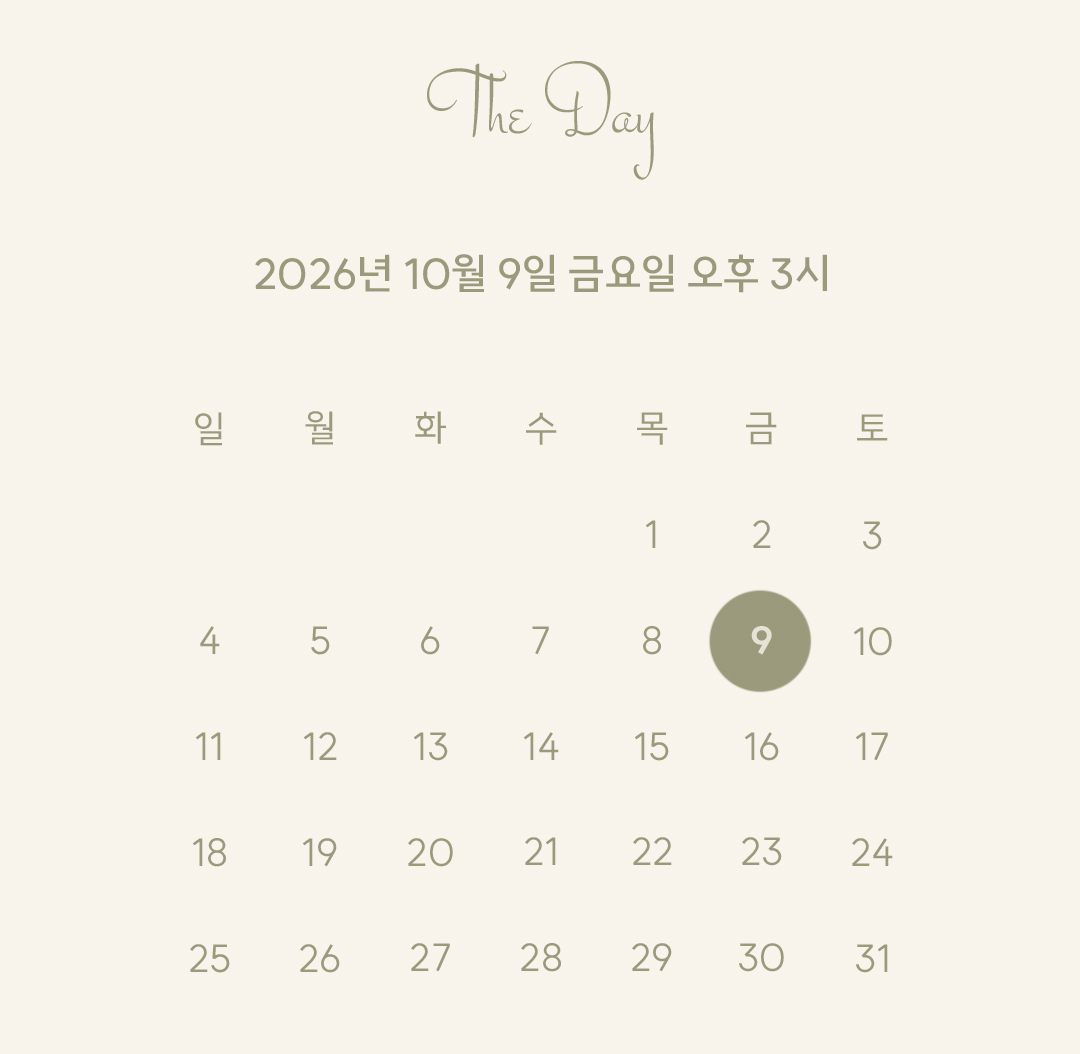
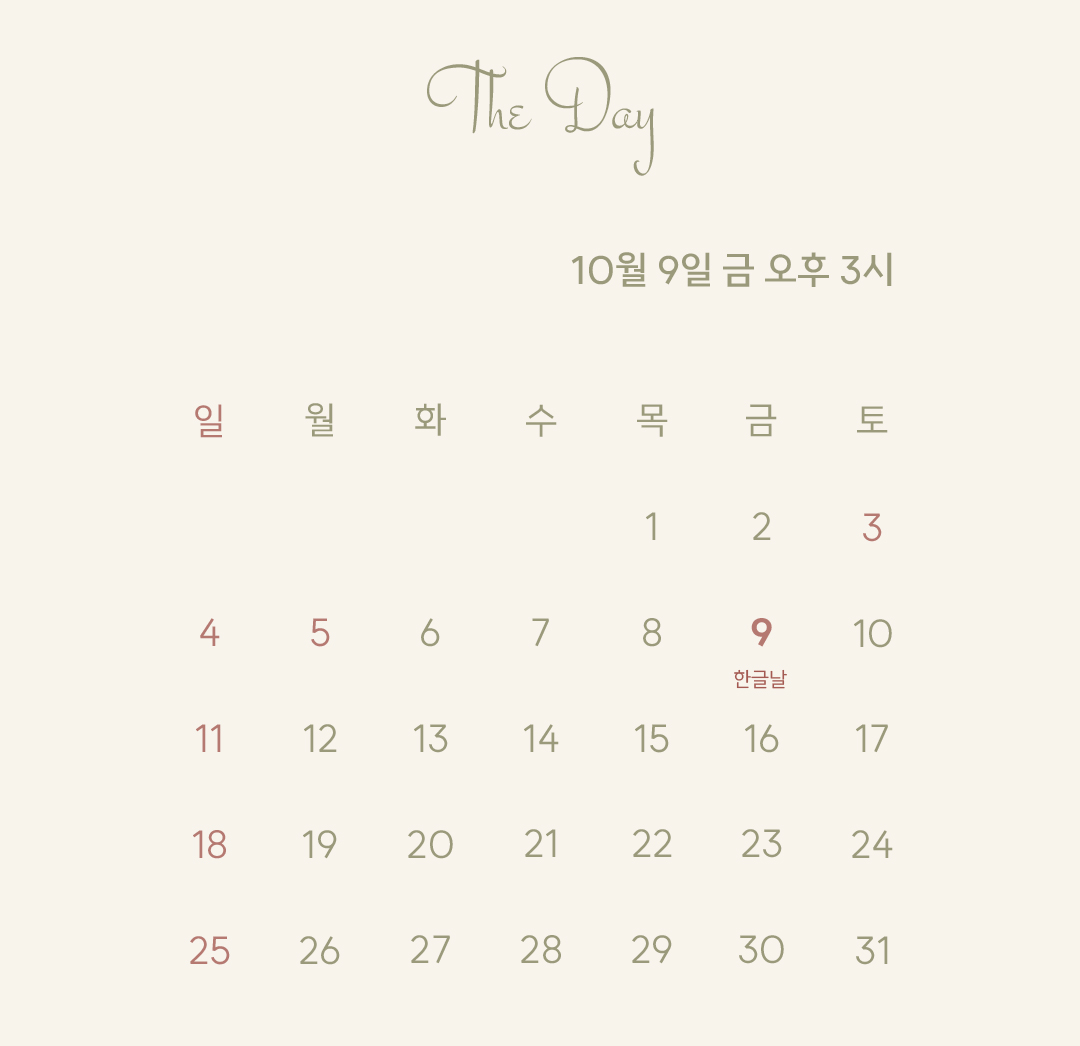
“수정”

diff --git a/index.html b/index.html
@@ -729,6 +729,23 @@ function copyAccount(account){
          class="transport-image02 style="margin-bottom:100px !important;">
 </div>
 
+<div class="mobile-center-box">
+    <img src="./images/infomation.jpg" alt="infomation" class="transport-image" style="margin-bottom: 30px !important;">
+</div>
+
+<div class="mobile-center-box">
+    <img src="./images/RSVP.jpg" alt="RSVP">
+</div>
+
+<div style="text-align:center; margin-top:12px; margin-bottom:200px;">  
+<a href="https://docs.google.com/forms/d/1O4c4TMR0_4QObzxyvLhb3vg29kSxr02ZiNGk8NIF16A/edit?hl=ko&pli=1#settings"
+     target="_blank"
+     rel="noopener noreferrer"
+     style="font-family:'SUITE', sans-serif; color:#9a9a7b; text-decoration:none; font-size:17.5px; font-weight:200;">
+    https://docs.google.com/forms/
+  </a>
+</div>
+
 
     <div class="mobile-center-box">
       <img src="./images/Registry.jpg" alt="Registry">